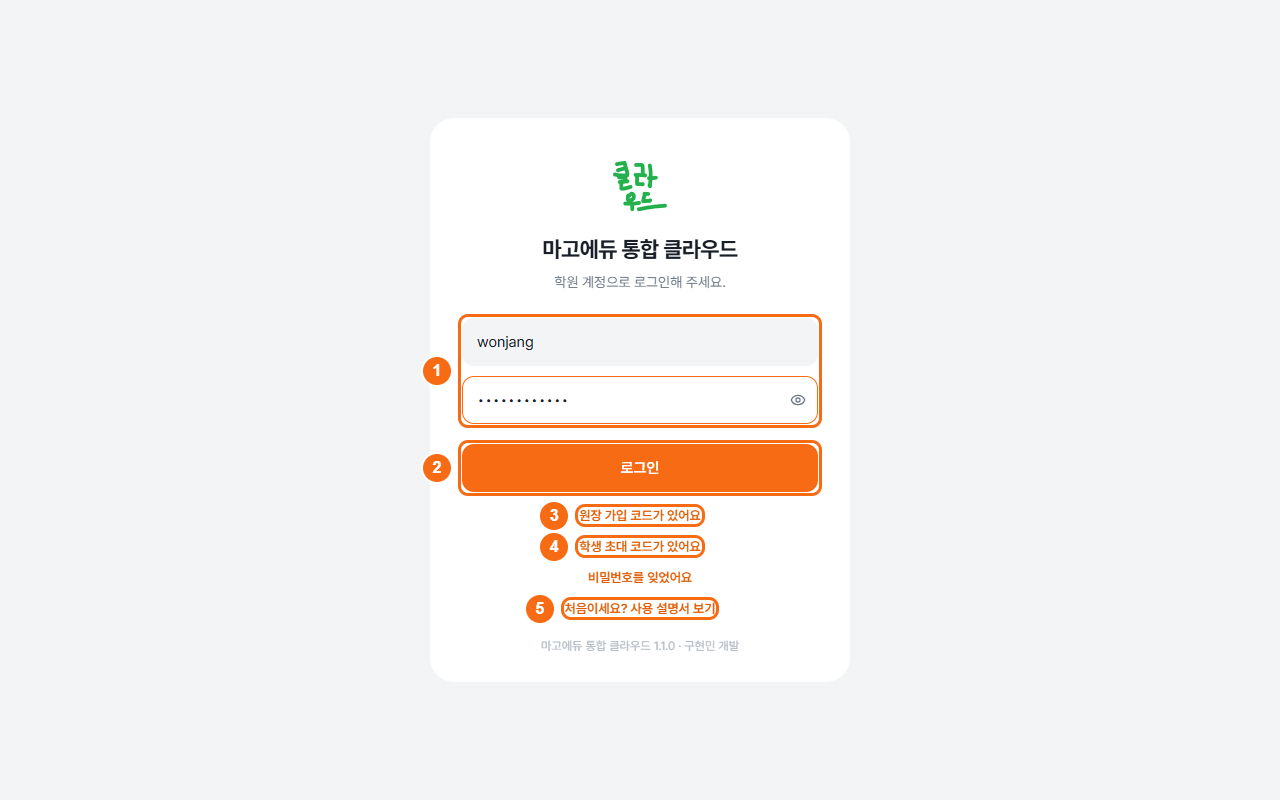
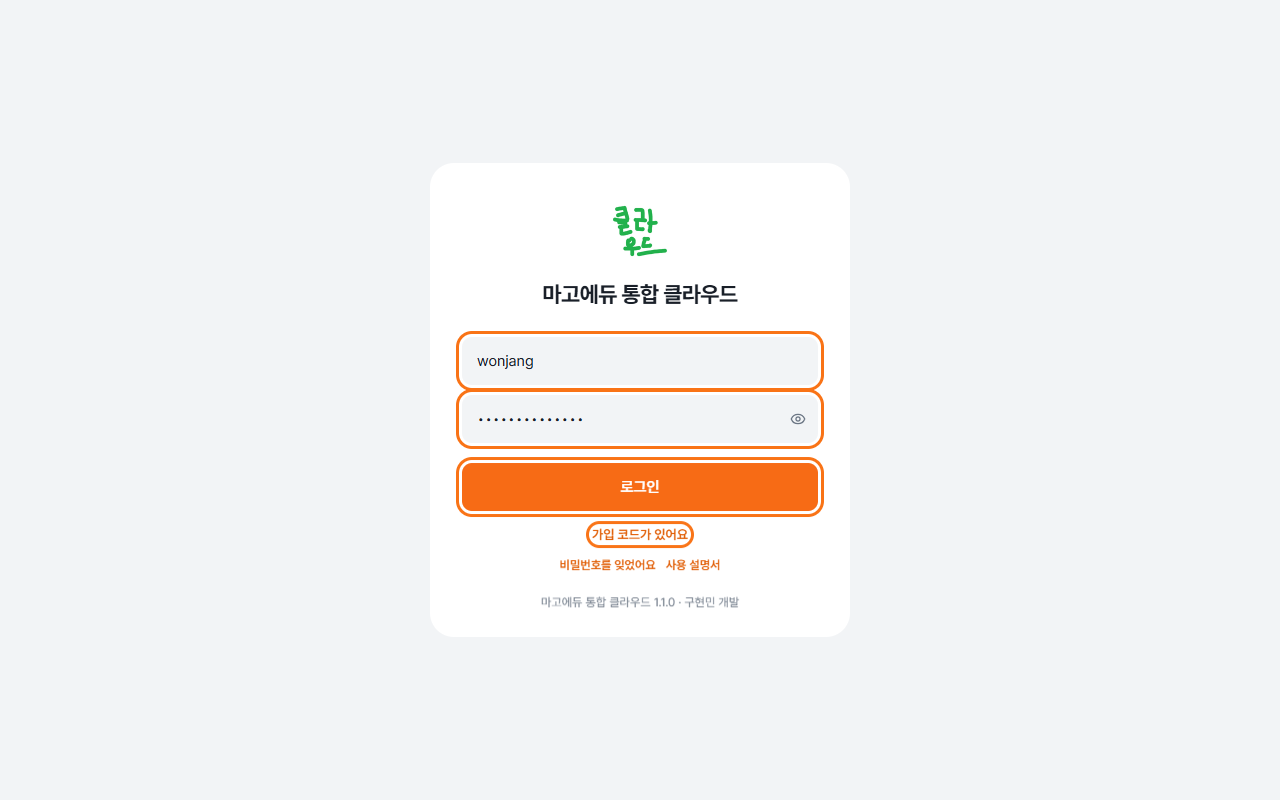
설명서: 화면 글자가 바뀐 그림 7장 다시 찍음(로그인·새 비밀번호·가입 코드·원장 가입·학생 계정 만들기·학원 AI·오답노트 설정), 학원 AI 카드 이름과 비밀번호 바꾸기 단추 이름을 화면과 맞춤

Changed region(s): [[0.3125, 0.1875, 0.6562, 0.8125]]

diff --git a/server/public/help/cloud.html b/server/public/help/cloud.html
@@ -30,7 +30,7 @@
 <li><b>내 계정을 준비합니다.</b><p>원장은 <span class="btn">가입 코드가 있어요</span>로 가입합니다. 선생님은 원장에게 아이디·임시 비밀번호를 받습니다. <a href="director.html#first">원장 가입 순서</a></p></li>
 <li><b>아이디와 비밀번호를 입력합니다.</b><p><span class="btn">로그인</span>을 누릅니다. 웹에서도 <a href="https://mago.milky.kr">mago.milky.kr</a>에 같은 아이디로 로그인할 수 있습니다.</p>
 <figure><img src="img/cloud-login.png" alt="통합 클라우드 웹의 로그인 화면입니다." loading="lazy"><figcaption>로그인·가입·설명서</figcaption></figure></li>
-<li><b>임시 비밀번호를 받았다면 새로 정합니다.</b><p>‘새 비밀번호 설정’이 나오면 지금 비밀번호와 새 비밀번호를 입력합니다. 새 비밀번호 확인에도 같은 새 비밀번호를 넣고 화면 아래 버튼으로 저장합니다.</p>
+<li><b>임시 비밀번호를 받았다면 새로 정합니다.</b><p>‘새 비밀번호 설정’이 나오면 지금 비밀번호와 새 비밀번호를 입력합니다. 새 비밀번호 확인에도 같은 새 비밀번호를 넣고 <span class="btn">바꾸기</span>를 누릅니다.</p>
 <figure><img src="img/cloud-first-password.png" alt="첫 로그인 때 비밀번호를 바꾸는 화면입니다." loading="lazy"><figcaption>임시 비밀번호 변경</figcaption></figure></li>
 </ol>
 <p>비밀번호를 잊으면 <span class="btn">비밀번호를 잊었어요</span>를 눌러 안내를 확인합니다. 학생은 선생님에게, 선생님은 원장에게, 원장은 운영자에게 초기화를 요청합니다.</p>
@@ -124,10 +124,10 @@
 <section id="ai"><h2>학원 AI 정하기 <small>— 원장, 선택 기능</small></h2>
 <p>정밀 인식은 문제를 읽거나 학교의 과목 표를 옮기는 일을 도와줍니다. 원장이 한 번 정하면 선생님들이 함께 쓸 수 있습니다. 계정의 로그인 비밀번호와는 다릅니다.</p>
 <ol class="steps">
-<li><b>학원 AI를 엽니다.</b><p>왼쪽 <span class="menu">학원 AI</span>의 ‘기본 연결’를 확인합니다.</p>
+<li><b>학원 AI를 엽니다.</b><p>왼쪽 <span class="menu">학원 AI</span>의 ‘기본 설정’을 확인합니다.</p>
 <figure><img src="img/cloud-academy-ai.png" alt="학원에서 함께 쓸 연결 서비스를 정하는 화면입니다." loading="lazy"><figcaption>학원 AI 설정</figcaption></figure></li>
 <li><b>학원에서 쓸 연결 정보를 입력합니다.</b><p>서비스 종류와 API 키(그 서비스를 이용하는 연결용 비밀키)를 넣고 <span class="btn">저장</span>합니다. 서비스에 따라 모델 이름이나 주소도 필요합니다. 어렵다면 운영자에게 설정 도움을 요청합니다.</p></li>
-<li><b>각 프로그램에서 학원 AI를 쓰게 합니다.</b><p>오답노트는 <span class="btn">학원 AI 쓰기</span>, 과목내비는 <span class="btn">학원 AI</span>를 고릅니다. 프로그램마다 다르게 정하려면 ‘세부 설정 — 프로그램마다 따로’에서 <span class="btn">따로 정하기</span>를 사용합니다.</p></li>
+<li><b>각 프로그램에서 학원 AI를 쓰게 합니다.</b><p>오답노트는 <span class="btn">학원 AI 쓰기</span>, 과목내비는 <span class="btn">학원 AI</span>를 고릅니다. 프로그램마다 다르게 정하려면 ‘고급: 프로그램별 설정’에서 <span class="btn">따로 정하기</span>를 사용합니다.</p></li>
 </ol>
 <p>고급 설정의 분당 요청 수·모델을 비워 두면 프로그램 기본값을 사용합니다. 보조 모델은 기본 모델 실패 때 사용합니다. 호환 서비스는 주소를 바꿀 수 있으며, 키 없는 서버는 키를 비워 둡니다.</p>
 <p>처음에는 학원 AI 사용을 권합니다. <span class="btn">내 키 쓰기</span> 같은 개인 설정은 원장과 상의한 뒤 합니다. 학원 AI가 없어도 오답노트의 기본 분석과 과목내비의 직접 선택·입력은 할 수 있습니다.</p>

diff --git a/server/public/help/teacher.html b/server/public/help/teacher.html
@@ -21,7 +21,7 @@
 <li><b>PC에 통합 클라우드를 설치합니다.</b><p><a href="https://mago.milky.kr">mago.milky.kr</a>의 <span class="btn">Windows 프로그램 내려받기</span>로 설치 파일을 받습니다. <a href="cloud.html#install">설치 순서</a></p></li>
 <li><b>로그인합니다.</b><p>PC에서 마고에듀 통합 클라우드를 열고 아이디·임시 비밀번호를 입력한 뒤 <span class="btn">로그인</span>을 누릅니다.</p>
 <figure><img src="img/app-login.png" alt="통합 클라우드 PC 앱의 로그인 화면입니다." loading="lazy"><figcaption>통합 클라우드 로그인 화면</figcaption></figure></li>
-<li><b>비밀번호를 변경합니다.</b><p>새 비밀번호 안내가 나오면 임시 비밀번호와 새 비밀번호를 입력합니다.</p>
+<li><b>비밀번호를 변경합니다.</b><p>새 비밀번호 안내가 나오면 임시 비밀번호와 새 비밀번호를 입력하고 <span class="btn">바꾸기</span>를 누릅니다.</p>
 <figure><img src="img/cloud-first-password.png" alt="첫 로그인 뒤 새 비밀번호를 정하는 화면입니다." loading="lazy"><figcaption>첫 로그인 비밀번호 변경</figcaption></figure></li>
 <li><b>프로그램을 설치하고 엽니다.</b><p><span class="menu">프로그램</span>에서 카드의 <span class="btn">설치</span>를 누릅니다. 설치가 끝나면 <span class="btn">열기</span>를 누릅니다. 카드가 없으면 원장에게 권한을 요청합니다.</p>
 <figure><img src="img/app-home.png" alt="통합 클라우드에서 PC 프로그램을 고르는 화면입니다." loading="lazy"><figcaption>프로그램 목록</figcaption></figure></li>
